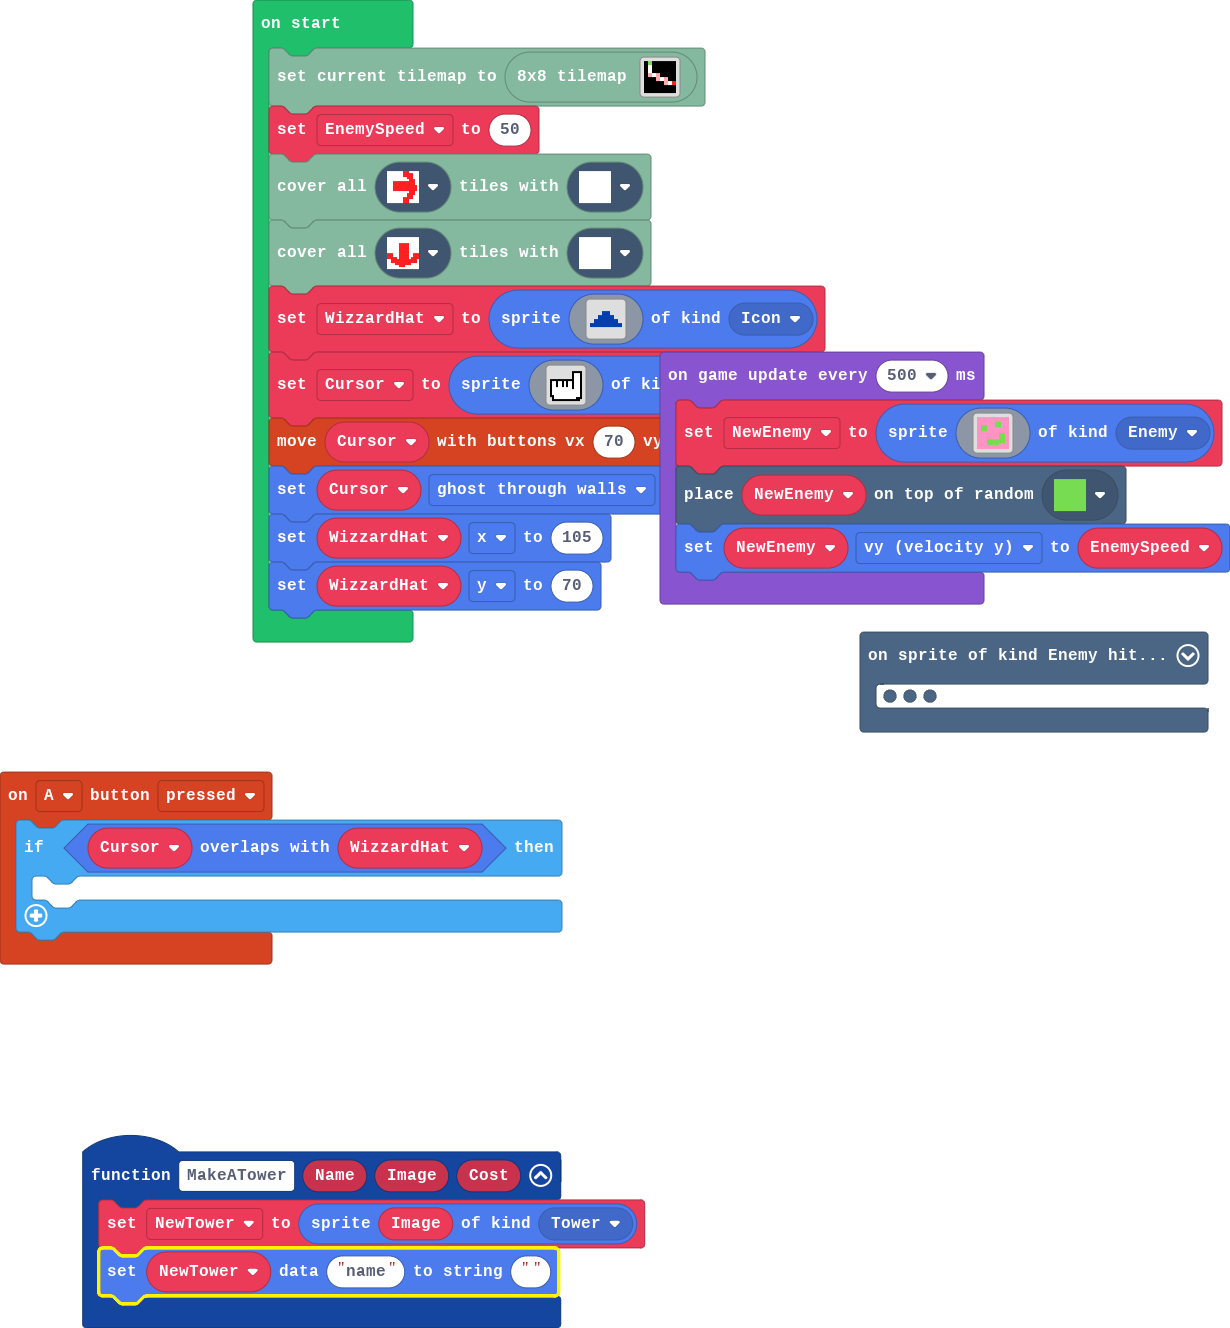
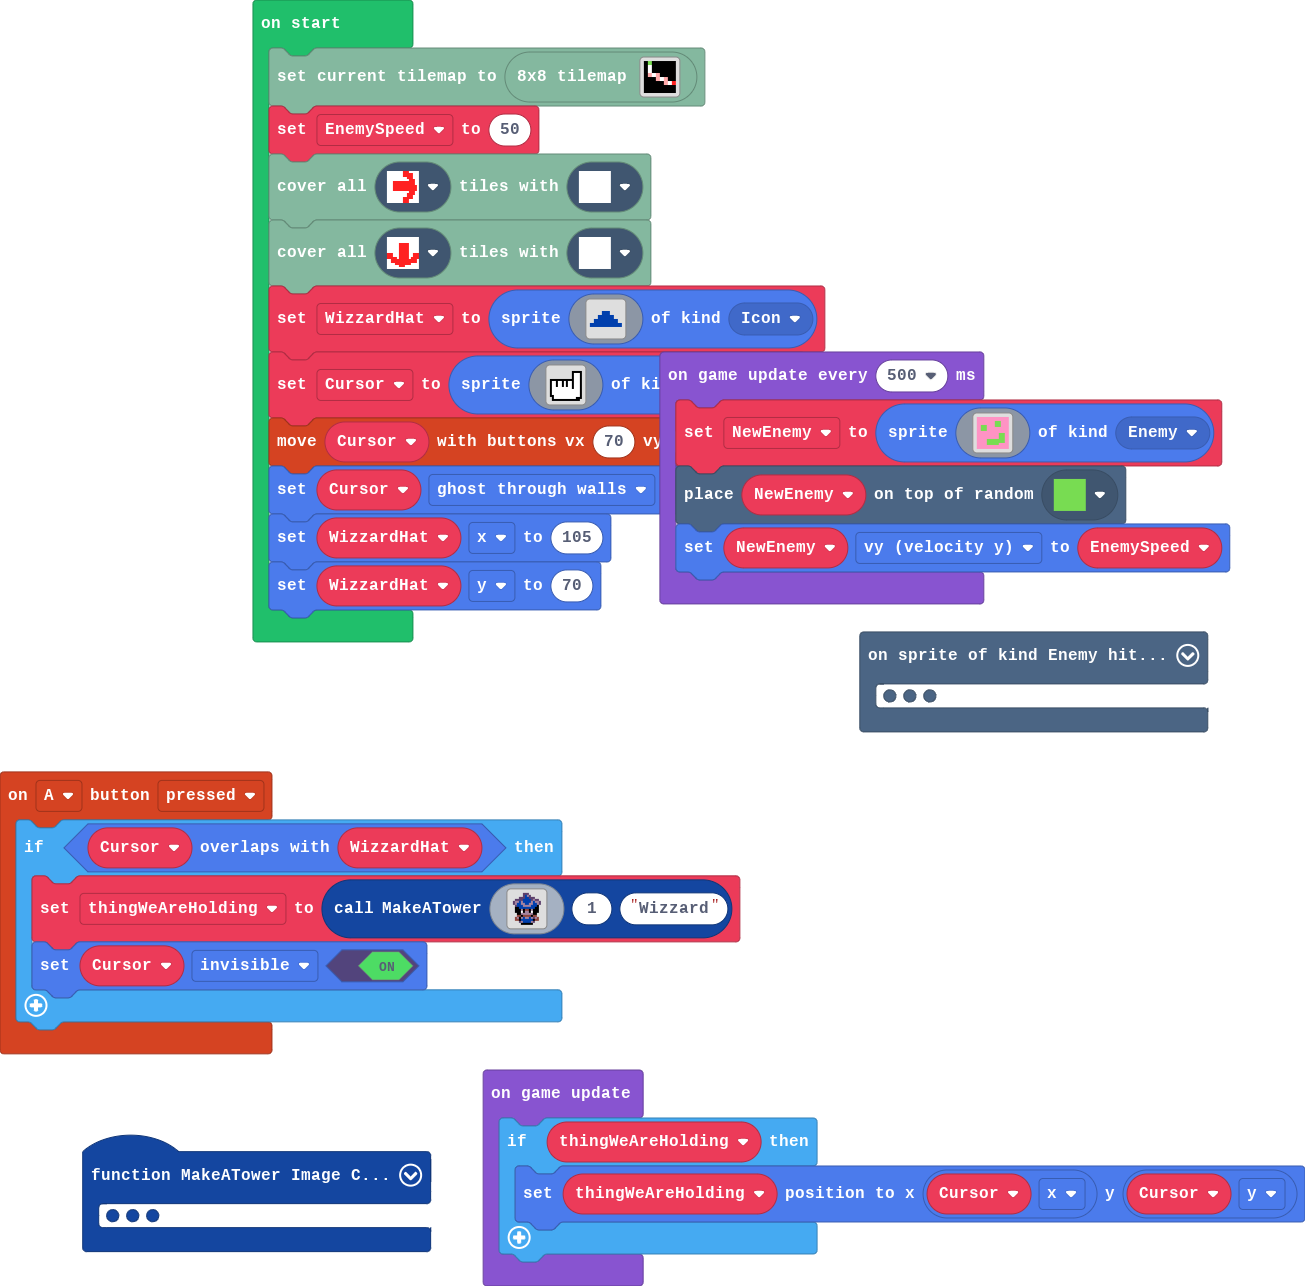
Update main.blocks, main.ts

diff --git a/main.ts b/main.ts
@@ -2,13 +2,33 @@ namespace SpriteKind {
     export const Icon = SpriteKind.create()
     export const Tower = SpriteKind.create()
 }
-function MakeATower (Name: Image, Image2: Image, Cost: number) {
+function MakeATower (Image2: Image, Cost: number, name: string) {
     NewTower = sprites.create(Image2, SpriteKind.Tower)
-    sprites.setDataString(NewTower, "name", "")
+    sprites.setDataNumber(NewTower, "cost", Cost)
+    sprites.setDataString(NewTower, "name", name)
+    return NewTower
 }
 controller.A.onEvent(ControllerButtonEvent.Pressed, function () {
     if (Cursor.overlapsWith(WizzardHat)) {
-    	
+        thingWeAreHolding = MakeATower(img`
+            . . . . . . c c c . . . . . . . 
+            . . . . . . c 8 b c . . . . . . 
+            . . . . c c c 8 8 c c c . . . . 
+            . . c c c c 8 8 8 8 c b c c . . 
+            . c b b 8 b 8 8 8 8 b 8 b b c . 
+            . c b 8 8 b b 8 8 b b 8 8 b c . 
+            . . c 8 8 8 b b b b 8 8 8 f . . 
+            . . f f 8 8 8 8 8 8 8 8 f f . . 
+            . . f f f b f e e f b f f f . . 
+            . . f f f 1 f b b f 1 f f f . . 
+            . . . f f b b b b b b f f . . . 
+            . . . e e f e e e e f e e . . . 
+            . . e b f b 8 b b 8 b c b e . . 
+            . . e e f 8 8 8 8 8 8 f e e . . 
+            . . . . c b 8 8 8 8 b c . . . . 
+            . . . . . f f f f f f . . . . . 
+            `, 1, "Wizzard")
+        Cursor.setFlag(SpriteFlag.Invisible, true)
     }
 })
 scene.onHitWall(SpriteKind.Enemy, function (sprite, location) {
@@ -21,6 +41,7 @@ scene.onHitWall(SpriteKind.Enemy, function (sprite, location) {
     }
 })
 let NewEnemy: Sprite = null
+let thingWeAreHolding: Sprite = null
 let NewTower: Sprite = null
 let Cursor: Sprite = null
 let WizzardHat: Sprite = null
@@ -35,6 +56,11 @@ controller.moveSprite(Cursor, 70, 70)
 Cursor.setFlag(SpriteFlag.GhostThroughWalls, true)
 WizzardHat.x = 105
 WizzardHat.y = 70
+game.onUpdate(function () {
+    if (thingWeAreHolding) {
+        thingWeAreHolding.setPosition(Cursor.x, Cursor.y)
+    }
+})
 game.onUpdateInterval(500, function () {
     NewEnemy = sprites.create(img`
         3 3 3 3 3 3 3 3 3 3 3 3 3 3 3 3 
